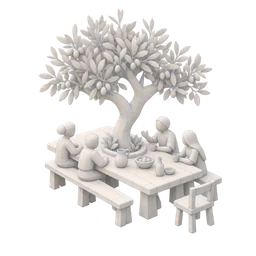
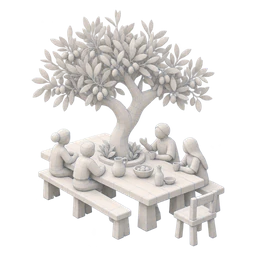
docs: README opens with "Imagine you live here": reader as a character, tunable and proactive personal agent; agreed ground in architecture
Character tiles (you, tuning, agreed garden) join the module props; promote trims transparent
margins so all tiles share one scale. Proactivity is scoped to named, agreed topics that the
person and agent keep gardening together.

Changed region(s): [[0.125, 0.0312, 0.875, 0.9688]]

diff --git a/scripts/readme_assets/generate.py b/scripts/readme_assets/generate.py
@@ -89,6 +89,14 @@ def promote(name: str, source: Path) -> None:
     width, height = assets[name]["size"]
     image = Image.open(source)
     image = image.convert("RGBA" if image.mode in ("RGBA", "LA", "P") else "RGB")
+    if image.mode == "RGBA" and width == height:
+        # Square props: trim the transparent margin and re-center, so every tile fills the
+        # same share of its cell however small the model drew it.
+        image = image.crop(image.getchannel("A").point(lambda a: 255 if a > 8 else 0).getbbox())
+        side = round(max(image.size) * 1.08)
+        canvas = Image.new("RGBA", (side, side))
+        canvas.paste(image, ((side - image.width) // 2, (side - image.height) // 2))
+        image = canvas
     image.thumbnail((width, height), Image.Resampling.LANCZOS)
     OUT.mkdir(parents=True, exist_ok=True)
     target = OUT / f"{name}.webp"

diff --git a/README.md b/README.md
@@ -1,6 +1,6 @@
 <picture>
   <source media="(prefers-color-scheme: dark)" srcset="docs/assets/readme/hero-dark.webp">
-  <img alt="An isometric low-poly town square: people in small groups, their messages arcing across the square to a planning table by the fountain." src="docs/assets/readme/hero-light.webp">
+  <img alt="A small floating island settlement by the sea: people in small groups, their messages arcing to a shared table under an olive tree." src="docs/assets/readme/hero-light.webp">
 </picture>
 
 <h1 align="center">meydan</h1>
@@ -15,6 +15,53 @@
   <img alt="license" src="https://img.shields.io/badge/license-Apache--2.0-d98b1f">
 </p>
 
+## Imagine you live here
+
+<table>
+  <tr>
+    <td align="center" width="96"><img src="docs/assets/readme/char-you.webp" width="80" alt=""></td>
+    <td>You live on this island. A small light follows you around and acts for you.</td>
+    <td>your <b>personal agent</b></td>
+  </tr>
+  <tr>
+    <td align="center" width="96"><img src="docs/assets/readme/char-tune.webp" width="80" alt=""></td>
+    <td>You decide how much it does on its own: <i>ask me first</i>, or <i>just handle it</i>.</td>
+    <td><b>tunable</b><br><sub>planned</sub></td>
+  </tr>
+  <tr>
+    <td align="center" width="96"><img src="docs/assets/readme/char-garden.webp" width="80" alt=""></td>
+    <td>Where you've named clearly what you want and you both agreed on it, it acts without being asked, the way you would think. You keep gardening that ground together, and it ripens with practice.</td>
+    <td><b>proactive</b>, within what you agreed<br><sub>planned</sub></td>
+  </tr>
+  <tr>
+    <td align="center" width="96"><img src="docs/assets/readme/mod-channels.webp" width="80" alt=""></td>
+    <td>You talk to it by message, like to a friend.</td>
+    <td>a <b>channel</b><br><sub>WhatsApp</sub></td>
+  </tr>
+  <tr>
+    <td align="center" width="96"><img src="docs/assets/readme/mod-runtime.webp" width="80" alt=""></td>
+    <td>Every message reaches it once and in order. Every reply arrives.</td>
+    <td>the <b>runtime</b></td>
+  </tr>
+  <tr>
+    <td align="center" width="96"><img src="docs/assets/readme/mod-llm.webp" width="80" alt=""></td>
+    <td>It thinks with a model. If one goes dark, the next is already lit.</td>
+    <td><b>llm</b> with fallback</td>
+  </tr>
+  <tr>
+    <td align="center" width="96"><img src="docs/assets/readme/mod-planning.webp" width="80" alt=""></td>
+    <td>Your neighbors have lights too. When they need to agree on a time and place, one planner sets the table.</td>
+    <td>the <b>planner</b><br><sub>planned</sub></td>
+  </tr>
+  <tr>
+    <td align="center" width="96"><img src="docs/assets/readme/mod-instance.webp" width="80" alt=""></td>
+    <td>The island is one community. Later, bridges to other islands.</td>
+    <td>an <b>instance</b>, later <b>peers</b></td>
+  </tr>
+</table>
+
+## In plain terms
+
 meydan is a Python framework and a set of instance primitives for running **personal agents**
 (one per person, acting on their behalf over a messaging channel such as WhatsApp) and
 **planning agents** that coordinate people one-to-one and in groups: finding partners, forming
@@ -26,28 +73,11 @@ designed to become peers in a network later (agent-to-agent, A2A-shaped messages
 > Status: early (v0.2.1). Only the pieces marked *available* below exist today. The rest is the
 > plan, documented in [docs/architecture.md](docs/architecture.md).
 
-## What v0.2 lets you do
+**New in v0.2:** the channel and the runtime. meydan can now hold real WhatsApp
+conversations, and you only write what the agent says back, `reply(turn)`.
 
-Before v0.2, meydan could talk to a model and say dates right, but it couldn't hold a
-conversation on WhatsApp. Now you write one function, what your agent says back, and meydan
-takes care of the rest:
-
-```python
-async def reply(turn: Turn) -> list[Outbound]: ...
-```
-
-- **Nothing is handled twice.** WhatsApp may deliver the same message more than once; it is
-  processed once.
-- **People can type the way they type.** Three quick messages in a row are read together as
-  one turn, in the order they were written.
-- **Nothing gets lost.** Replies are saved together with the conversation state, so a crash
-  between "decided" and "sent" can't drop a message.
-- **Replies feel human and arrive.** They go out in order, at a natural pace, with retries;
-  what still can't be delivered is set aside for you to see, not silently dropped.
-
-**v0.2.1** makes two edges safe: if the "typing…" indicator fails, the reply still goes out;
-and errors that retrying can't fix (a wrong token, a malformed request) are marked as permanent
-right away instead of being retried.
+**v0.2.1:** if the "typing…" indicator fails, the reply still goes out; errors that retrying
+can't fix (a wrong token, a malformed request) are marked permanent right away.
 
 <picture>
   <source media="(prefers-color-scheme: dark)" srcset="docs/assets/readme/flow-dark.svg">

diff --git a/docs/architecture.md b/docs/architecture.md
@@ -18,6 +18,10 @@ summarized at the end; claims about what's built are in the README.
   `proposed → collecting → confirmed → at_risk → dropped → backfilled → done | no_show`.
 - **Autonomy policy**: per person and per action, what the agent may do alone and what needs a
   "yes" first (e.g. "auto-accept Saturday mornings at my club", "always ask before paying").
+- **Agreed ground**: the agent is proactive only on topics the person has named clearly and
+  agreed on with it; there it follows the person's way of thinking without being asked.
+  Outside that ground it asks. The ground is gardened, not just widened: the person and the
+  agent revisit and refine it over time, as a practice.
 - **Instance**: one community's deployment (data, planner, agents, channel). Later a **node**
   that can exchange typed messages with other instances.
 
